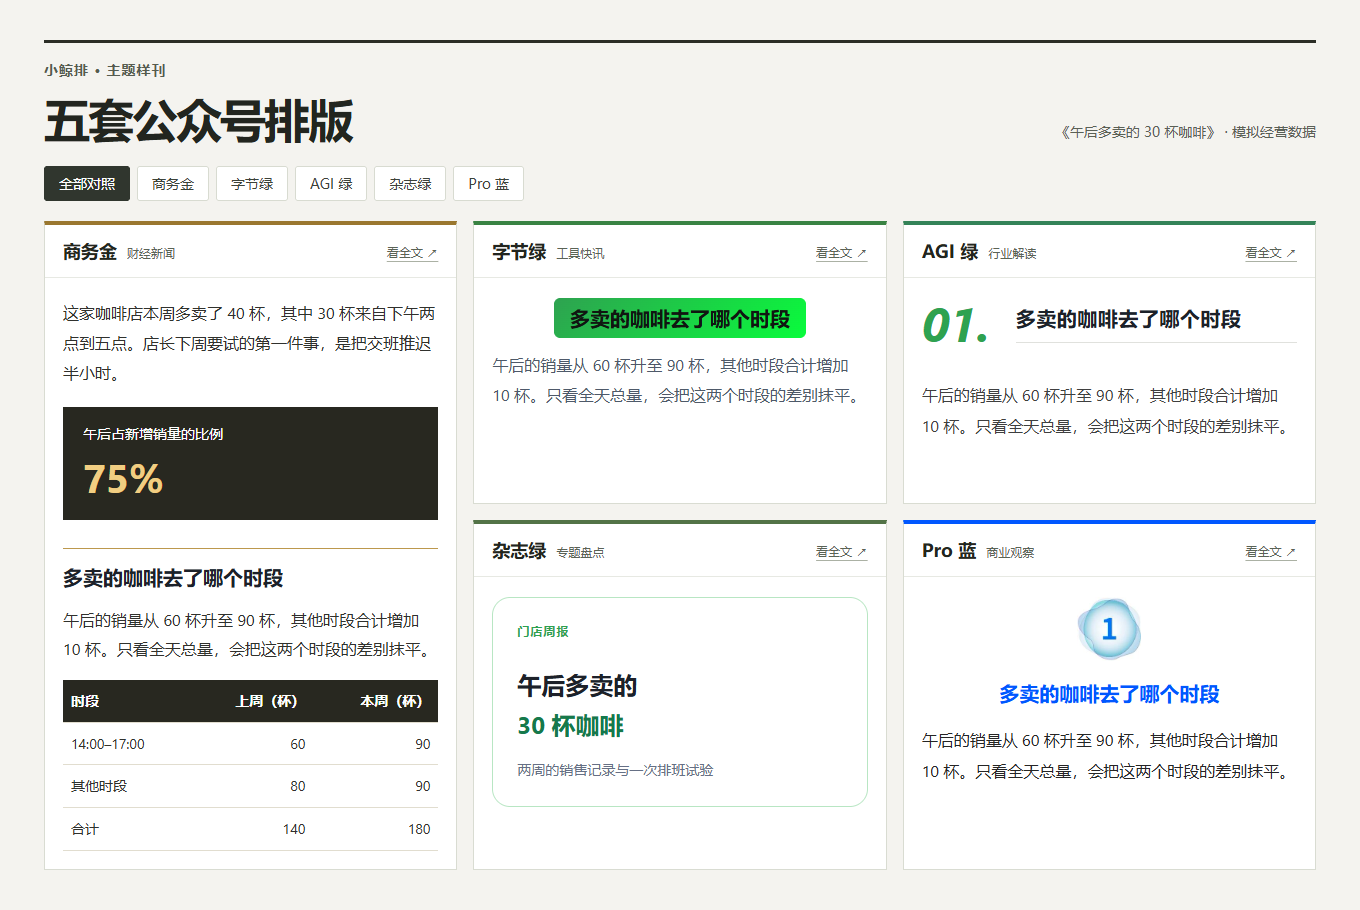
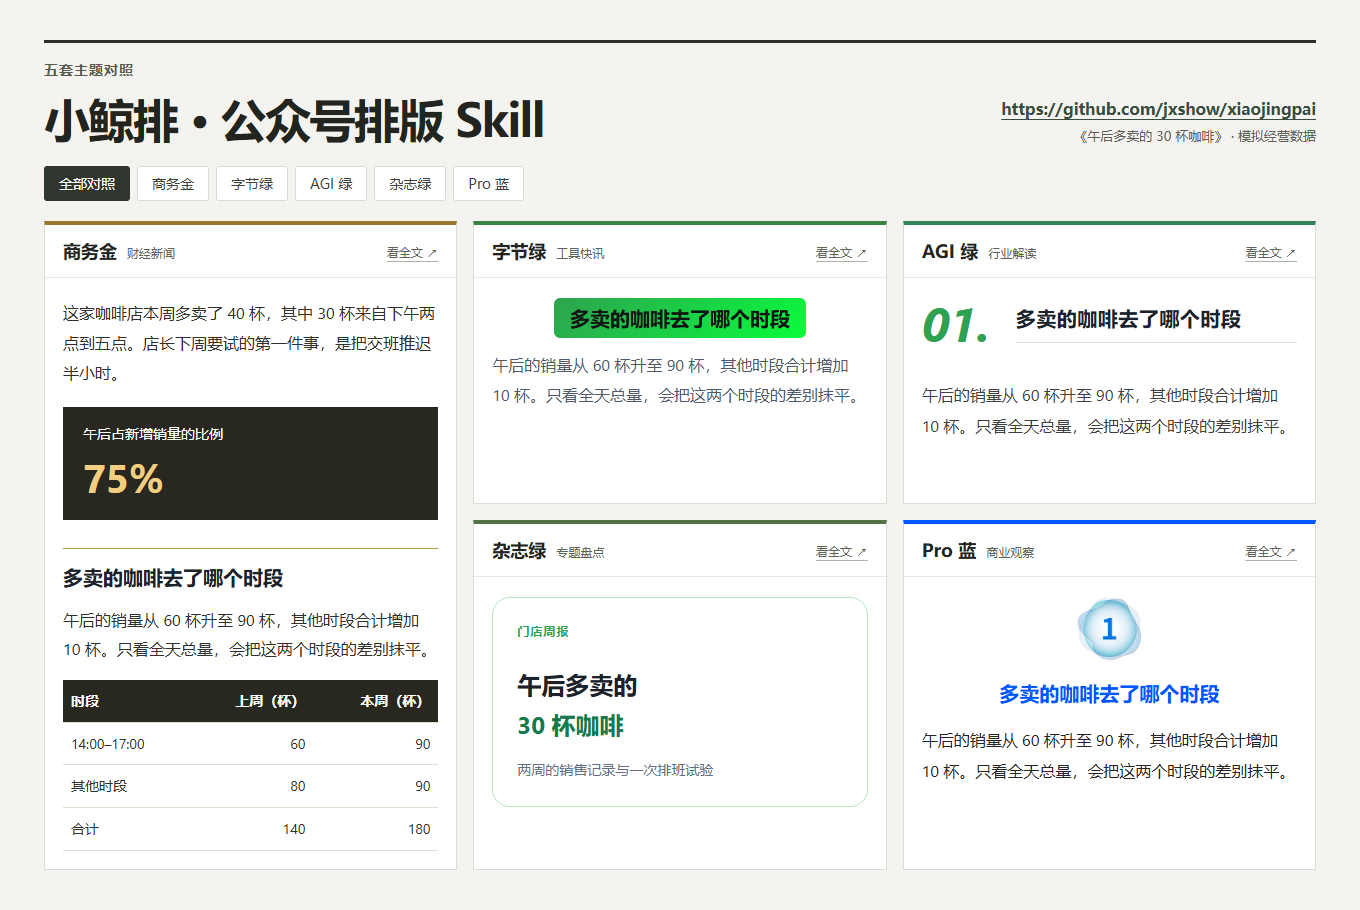
docs: 在主题对照图标明 Skill 和 GitHub 地址

Changed region(s): [[0.0309, 0.0615, 0.4015, 0.1538], [0.7412, 0.0923, 0.9882, 0.1538]]

diff --git a/assets/theme-previews/theme-comparison.html b/assets/theme-previews/theme-comparison.html
@@ -1,11 +1,12 @@
 <!doctype html>
 <html lang="zh-CN"><head><meta charset="utf-8"><meta name="viewport" content="width=device-width,initial-scale=1">
-<title>小鲸排 · 五套主题对照</title><style>
+<title>小鲸排 · 公众号排版 Skill</title><style>
 *{box-sizing:border-box} [hidden]{display:none!important}
 body{margin:0;color:#22251f;background:#f4f3ef;font-family:"Microsoft YaHei","PingFang SC",system-ui,sans-serif}
 .shell{width:min(1344px,100%);margin:auto;padding:40px 36px}
 .mast{border-top:3px solid #2b2d26;padding-top:17px}.brand{margin:0;color:#565b50;font-size:14px;font-weight:700;letter-spacing:1px}
-.title-row{display:flex;align-items:baseline;justify-content:space-between;gap:20px;flex-wrap:wrap;margin:12px 0 20px}.title-row h1{font-size:clamp(28px,3.5vw,46px);letter-spacing:-2px;line-height:1.2;margin:0;font-weight:750}.title-row p{font-size:14px;line-height:1.6;margin:0;color:#5a6056}
+.title-row{display:flex;align-items:flex-end;justify-content:space-between;gap:12px 20px;flex-wrap:wrap;margin:12px 0 20px}.title-row h1{font-size:clamp(28px,3.5vw,46px);letter-spacing:-1.5px;line-height:1.2;margin:0;font-weight:750}
+.edition{text-align:right}.edition a{color:#374d40;font-size:16px;font-weight:700;line-height:1.5;text-underline-offset:4px;overflow-wrap:anywhere}.edition p{font-size:13px;line-height:1.55;margin:5px 0 0;color:#5a6056}
 nav{display:flex;flex-wrap:wrap;gap:7px;margin:0 0 20px}nav a{color:#3c4239;background:#fff;padding:7px 14px;border:1px solid #d8dbd1;text-decoration:none;border-radius:3px;font-size:14px}nav a[aria-current=page]{background:#30362e;color:#fff;border-color:#30362e}a:focus-visible{outline:3px solid #af8738;outline-offset:2px}nav a:hover:not([aria-current=page]){background:#e9ece4}
 .grid{display:grid;grid-template-columns:repeat(3,minmax(0,1fr));gap:16px;align-items:stretch}
 .sample{min-width:0;background:white;border:1px solid #d9dcd2;border-top:4px solid var(--accent)}.sample:first-child{grid-row:span 2}
@@ -13,9 +14,9 @@ nav{display:flex;flex-wrap:wrap;gap:7px;margin:0 0 20px}nav a{color:#3c4239;back
 .card-head div{display:flex;gap:10px;align-items:baseline}.card-head h2{margin:0;font-size:18px;line-height:1.4}.card-head span,.card-head a{color:#5a6356;font-size:12px}.card-head a{text-underline-offset:4px;text-decoration-color:#abb1a4;white-space:nowrap}.clip{padding:2px 18px 8px}.clip>section{display:flow-root}.clip>section>:first-child{margin-top:18px!important}.clip>section>:last-child{margin-bottom:10px!important}
 .story{background:white;max-width:600px;margin:0 auto;padding:32px 36px;border:1px solid #d9dcd2}.story-title{margin:0 0 18px;font-size:26px;line-height:1.45;letter-spacing:-.5px;color:#20241d}
 @media(max-width:1040px){.shell{padding:24px 20px}.grid{grid-template-columns:repeat(2,minmax(0,1fr))}}
-@media(max-width:680px){.shell{padding:18px 12px}.grid{grid-template-columns:minmax(0,1fr)}.sample:first-child{grid-row:auto}.title-row{gap:8px;margin:12px 0 16px;display:block}.title-row p{margin-top:8px;font-size:13px}nav{gap:5px}nav a{padding:6px 10px;font-size:13px}.story{padding:20px 14px}.card-head{padding:11px 14px}.clip{padding:0 14px 7px}}
+@media(max-width:680px){.shell{padding:18px 12px}.grid{grid-template-columns:minmax(0,1fr)}.sample:first-child{grid-row:auto}.title-row{gap:8px;margin:12px 0 16px;display:block}.edition{margin-top:10px;text-align:left}.edition a{font-size:14px}nav{gap:5px}nav a{padding:6px 10px;font-size:13px}.story{padding:20px 14px}.card-head{padding:11px 14px}.clip{padding:0 14px 7px}}
 </style></head><body><main class="shell">
-<header class="mast"><p class="brand">小鲸排 · 主题样刊</p><div class="title-row"><h1>五套公众号排版</h1><p>《午后多卖的 30 杯咖啡》 · 模拟经营数据</p></div></header>
+<header class="mast"><p class="brand">五套主题对照</p><div class="title-row"><h1>小鲸排 · 公众号排版 Skill</h1><div class="edition"><a href="https://github.com/jxshow/xiaojingpai">https://github.com/jxshow/xiaojingpai</a><p>《午后多卖的 30 杯咖啡》 · 模拟经营数据</p></div></div></header>
 <nav aria-label="选择排版主题"><a href="#all" data-view="all">全部对照</a><a href="#business-gold" data-view="business-gold">商务金</a><a href="#byte-green" data-view="byte-green">字节绿</a><a href="#agi-green" data-view="agi-green">AGI 绿</a><a href="#magazine-green" data-view="magazine-green">杂志绿</a><a href="#pro-blue" data-view="pro-blue">Pro 蓝</a></nav>
[1 lines of base64/hex data omitted]
 <script>
